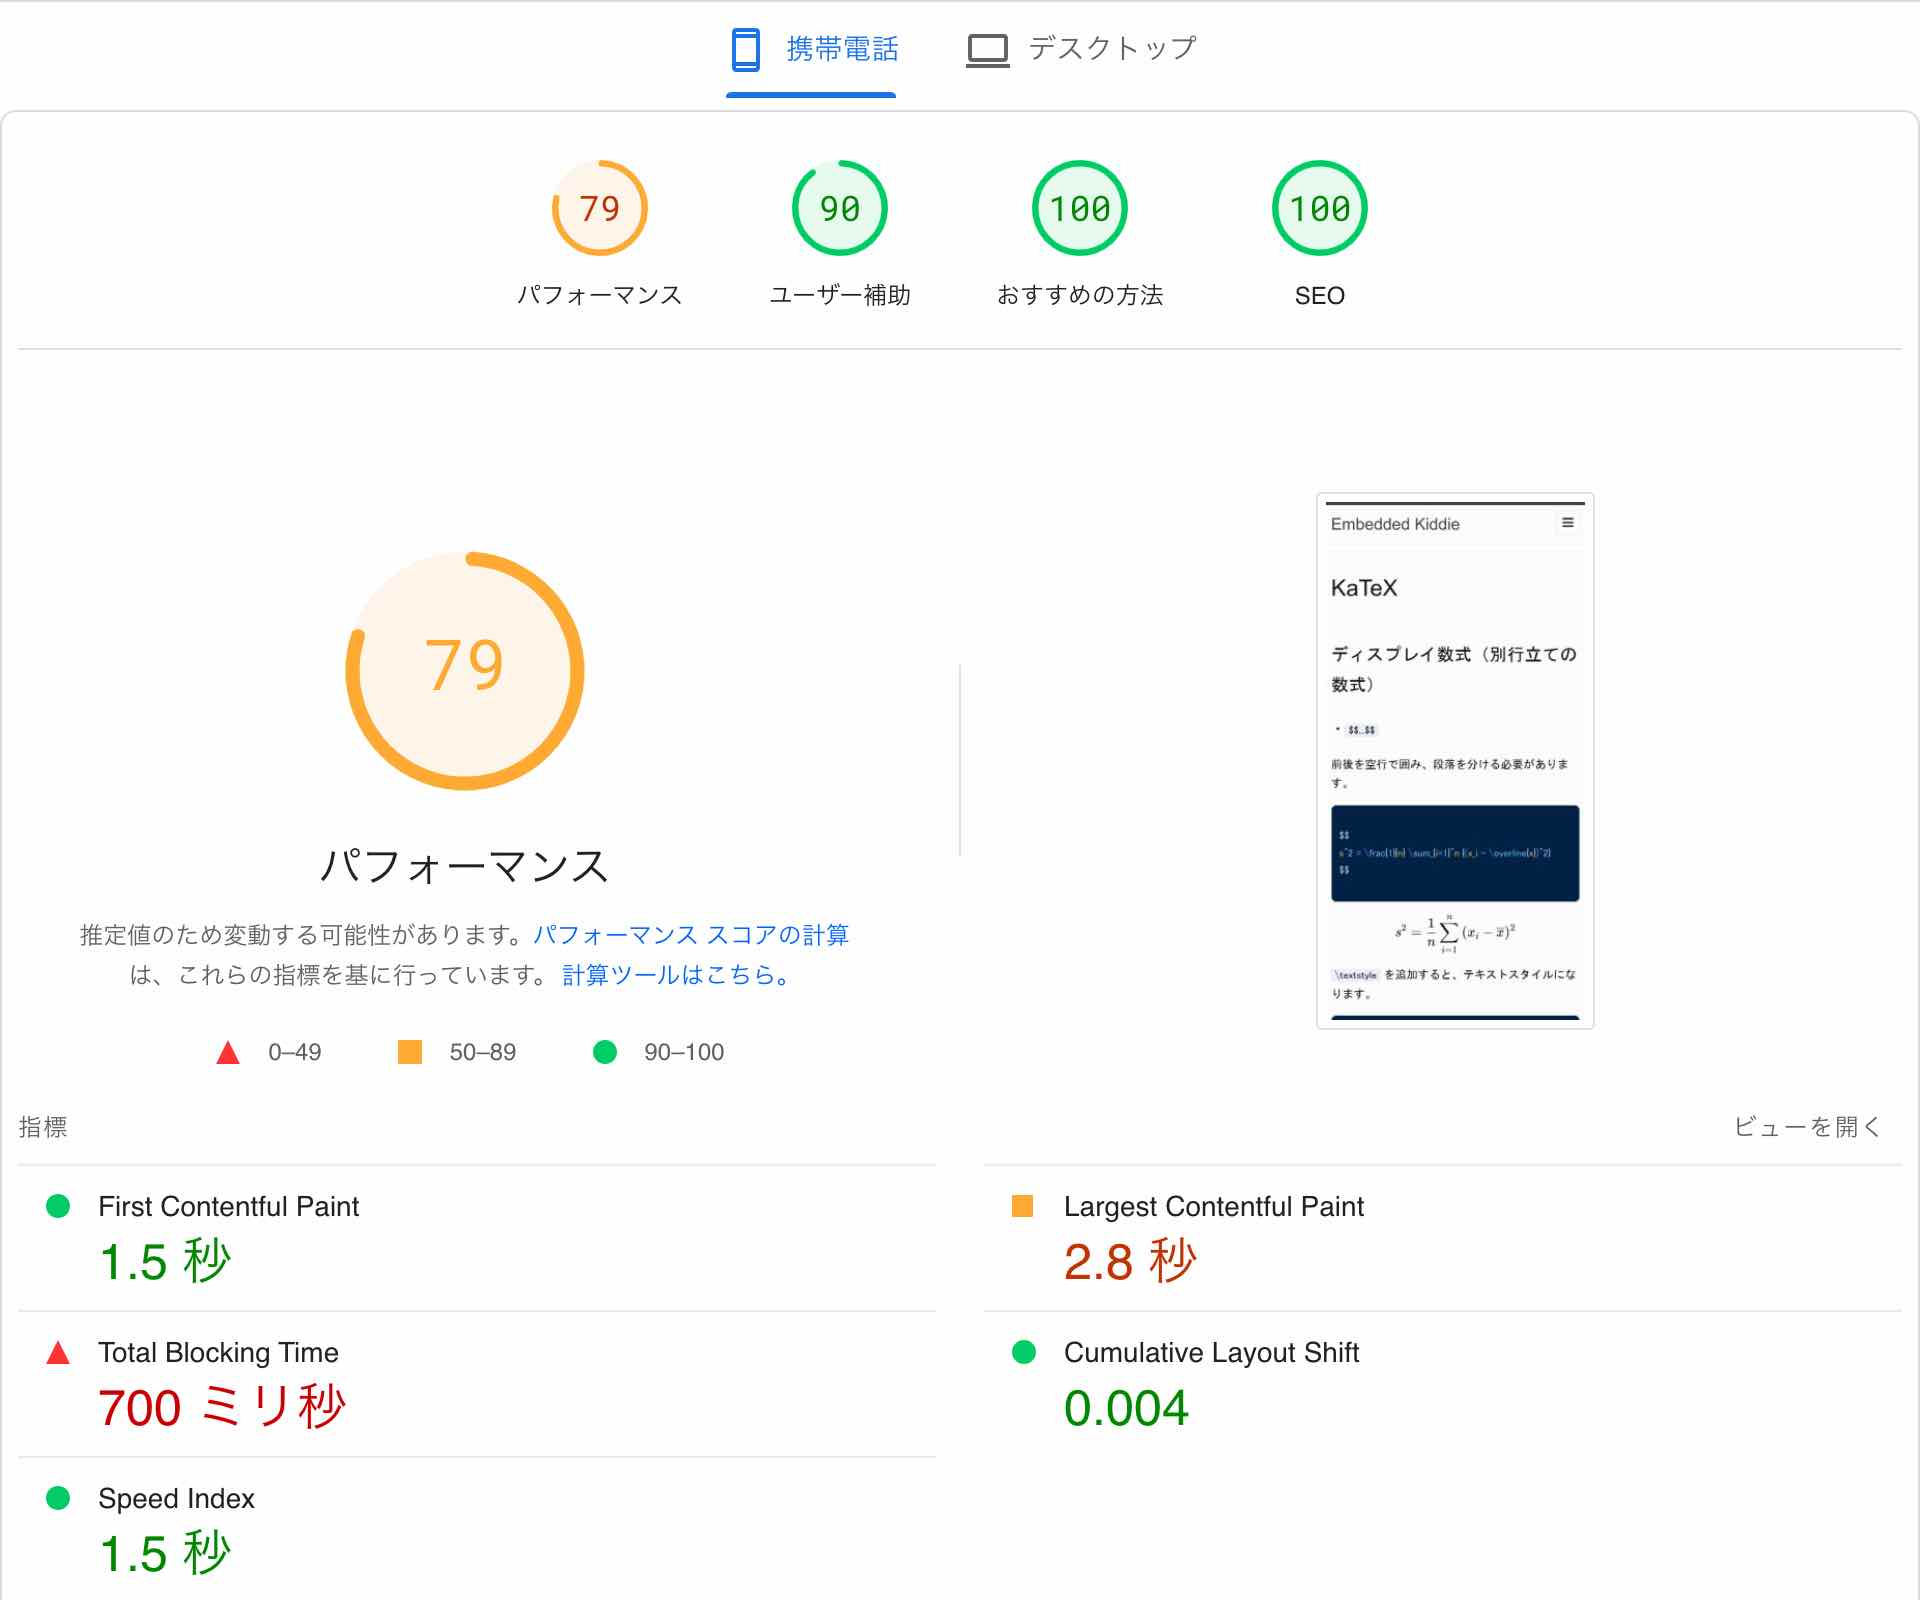
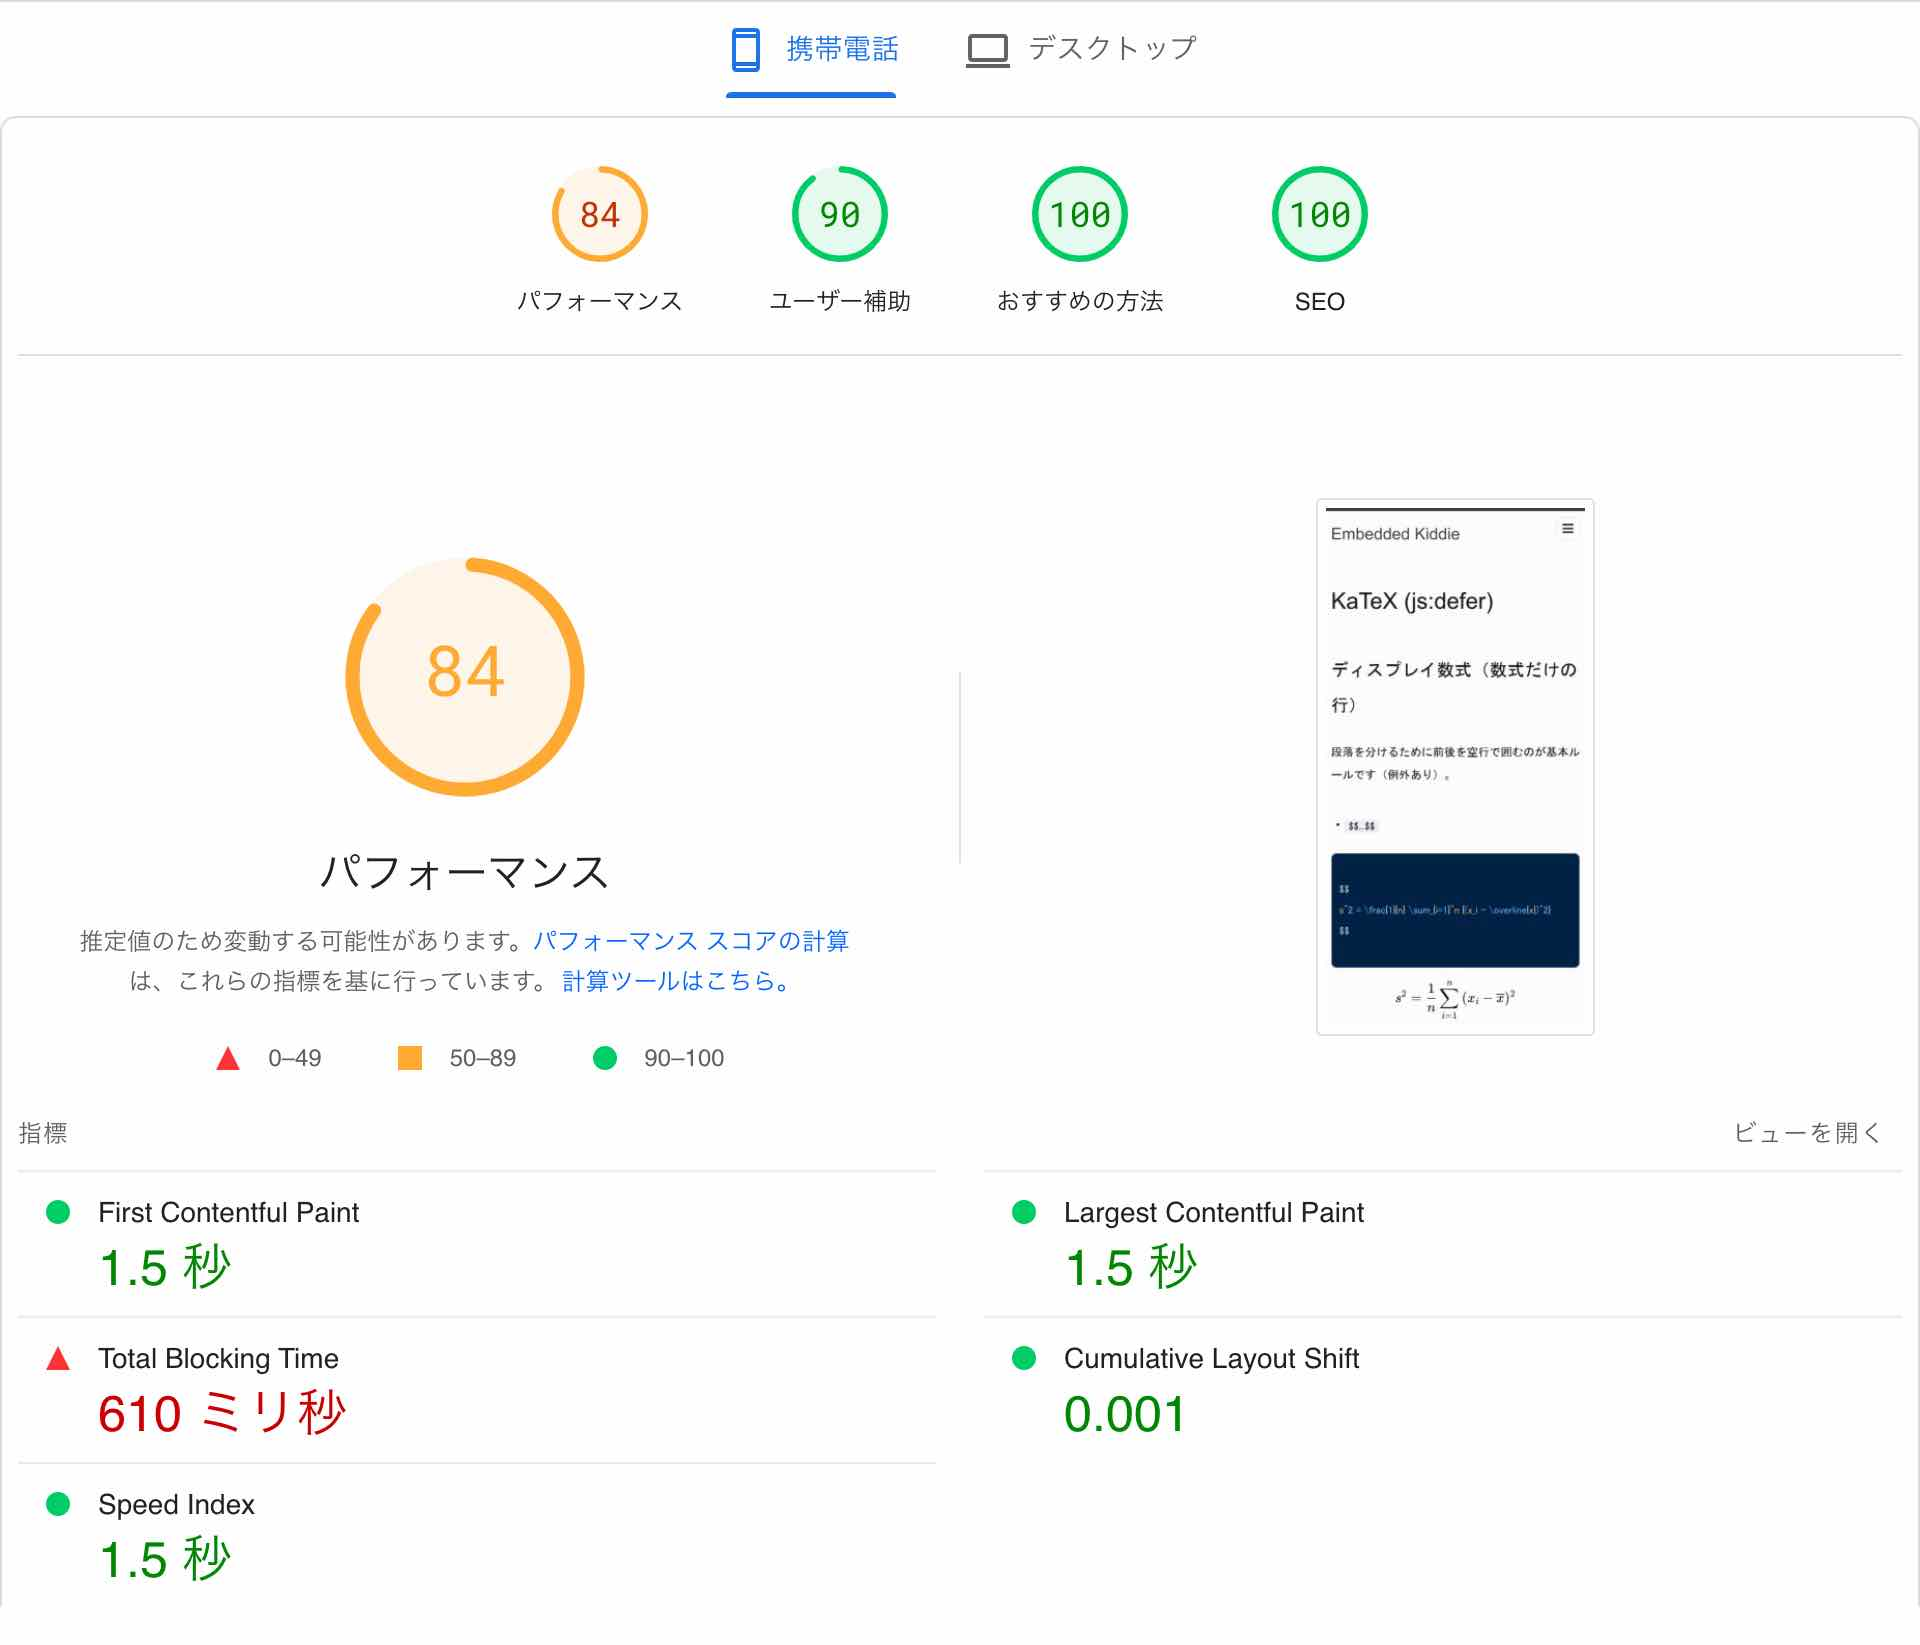
Update post.

diff --git a/2024/05/16/index.html b/2024/05/16/index.html
@@ -144,11 +144,11 @@
     <tr>
       <td><a href="https://katex.org/" title="KaTeX – The fastest math typesetting library for the web">KaTeX</a></td>
       <td><a href="#katex-jsdefer" title="KaTeX (js:defer) - Embedded Kiddie">js:defer</a></td>
-      <td style="text-align: center">86</td>
+      <td style="text-align: center">84</td>
       <td style="text-align: center">1.5</td>
       <td style="text-align: center">1.5</td>
       <td style="text-align: center">1.5</td>
-      <td style="text-align: right">540</td>
+      <td style="text-align: right">610</td>
       <td style="text-align: center">△</td>
     </tr>
     <tr>
@@ -236,7 +236,7 @@
 
 <ul>
   <li><a href="/pages/math/katex.html" title="KaTeX - Embedded Kiddie">サンプルページ</a></li>
-  <li><a href="https://pagespeed.web.dev/analysis/https-embedded-kiddie-github-io-pages-math-katex-html/htmq9y1dwf?hl=ja&amp;form_factor=mobile">PageSpeed Insights</a></li>
+  <li><a href="https://pagespeed.web.dev/analysis/https-embedded-kiddie-github-io-pages-math-katex-html/em7b0y7p50?hl=ja&amp;form_factor=mobile">PageSpeed Insights</a></li>
 </ul>
 
 <details>

diff --git a/pages/math/katex.html b/pages/math/katex.html
@@ -250,6 +250,14 @@ s^2 = \frac{1}{n} \sum_{i=1}^n {(x_i - \overline{x})^2}
 \frac{n}{N4}\)
 となります。</p>
 
+<h3 id="ボックスで囲まれた式">ボックスで囲まれた式</h3>
+
+<figure class="highlight"><pre><code class="language-tex" data-lang="tex"><span class="p">$$</span><span class="nb">
+</span><span class="nv">\boxed</span><span class="p">{</span><span class="nv">\eta</span><span class="nb"> </span><span class="nv">\leq</span><span class="nb"> C</span><span class="o">(</span><span class="nv">\delta</span><span class="o">(</span><span class="nv">\eta</span><span class="o">)</span><span class="nb"> </span><span class="o">+</span><span class="nv">\Lambda</span><span class="p">_</span><span class="nb">M</span><span class="o">(</span><span class="m">0</span><span class="nb">,</span><span class="nv">\delta</span><span class="o">))</span><span class="p">}</span><span class="nb">
+</span><span class="p">$$</span></code></pre></figure>
+
+\[\boxed{\eta \leq C(\delta(\eta) +\Lambda_M(0,\delta))}\]
+
 <hr />
 
 <div class="footnotes" role="doc-endnotes">
